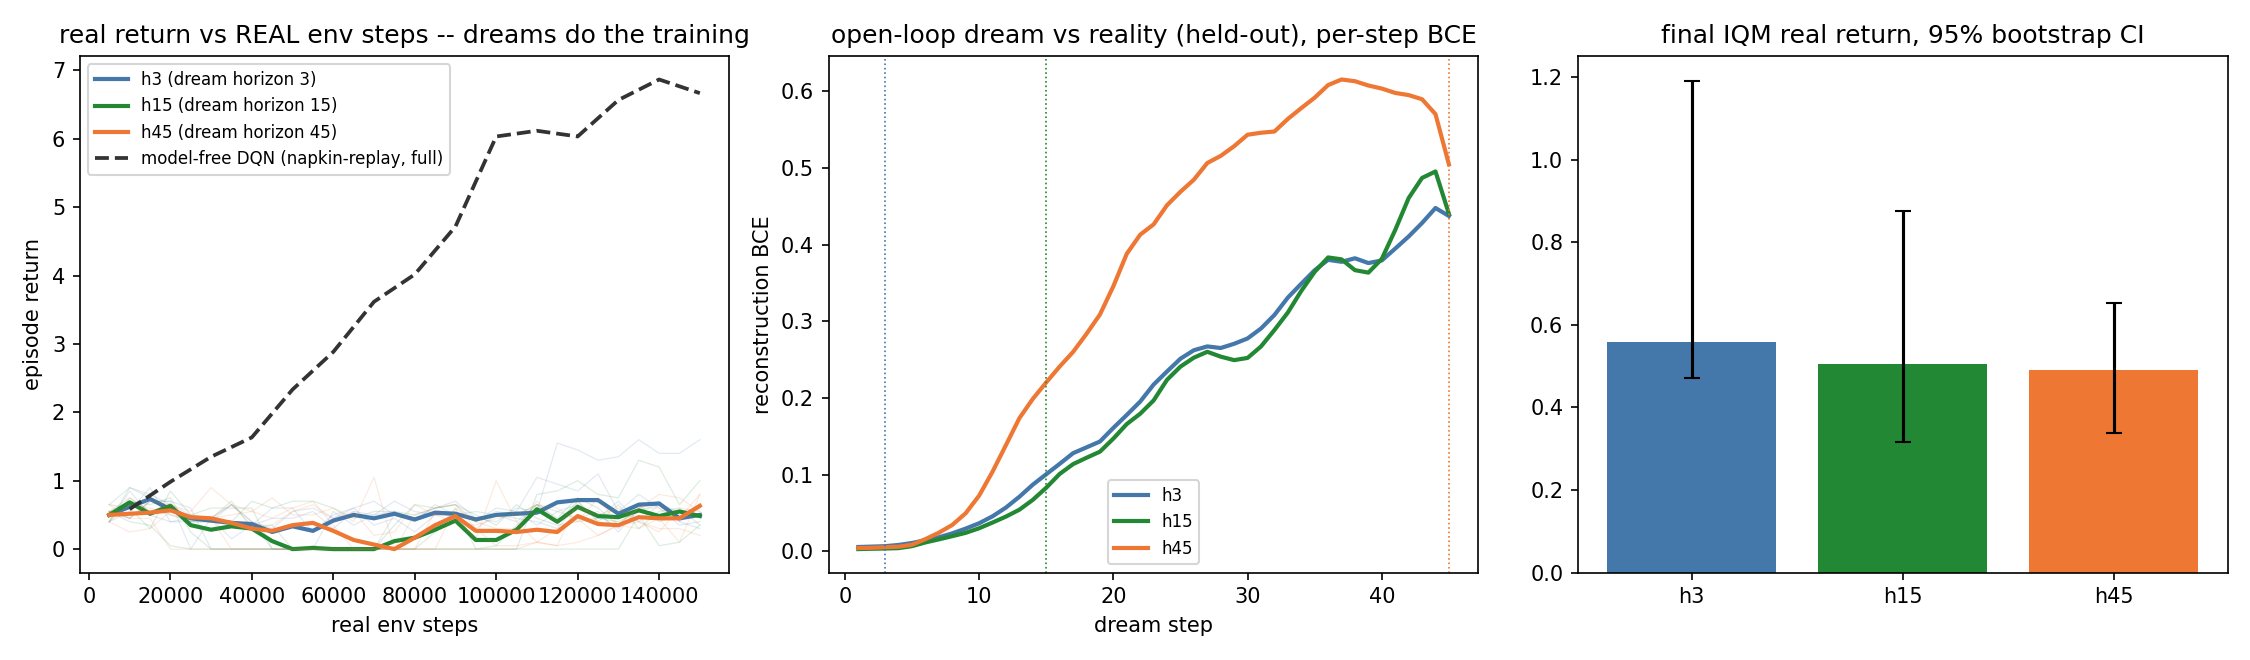
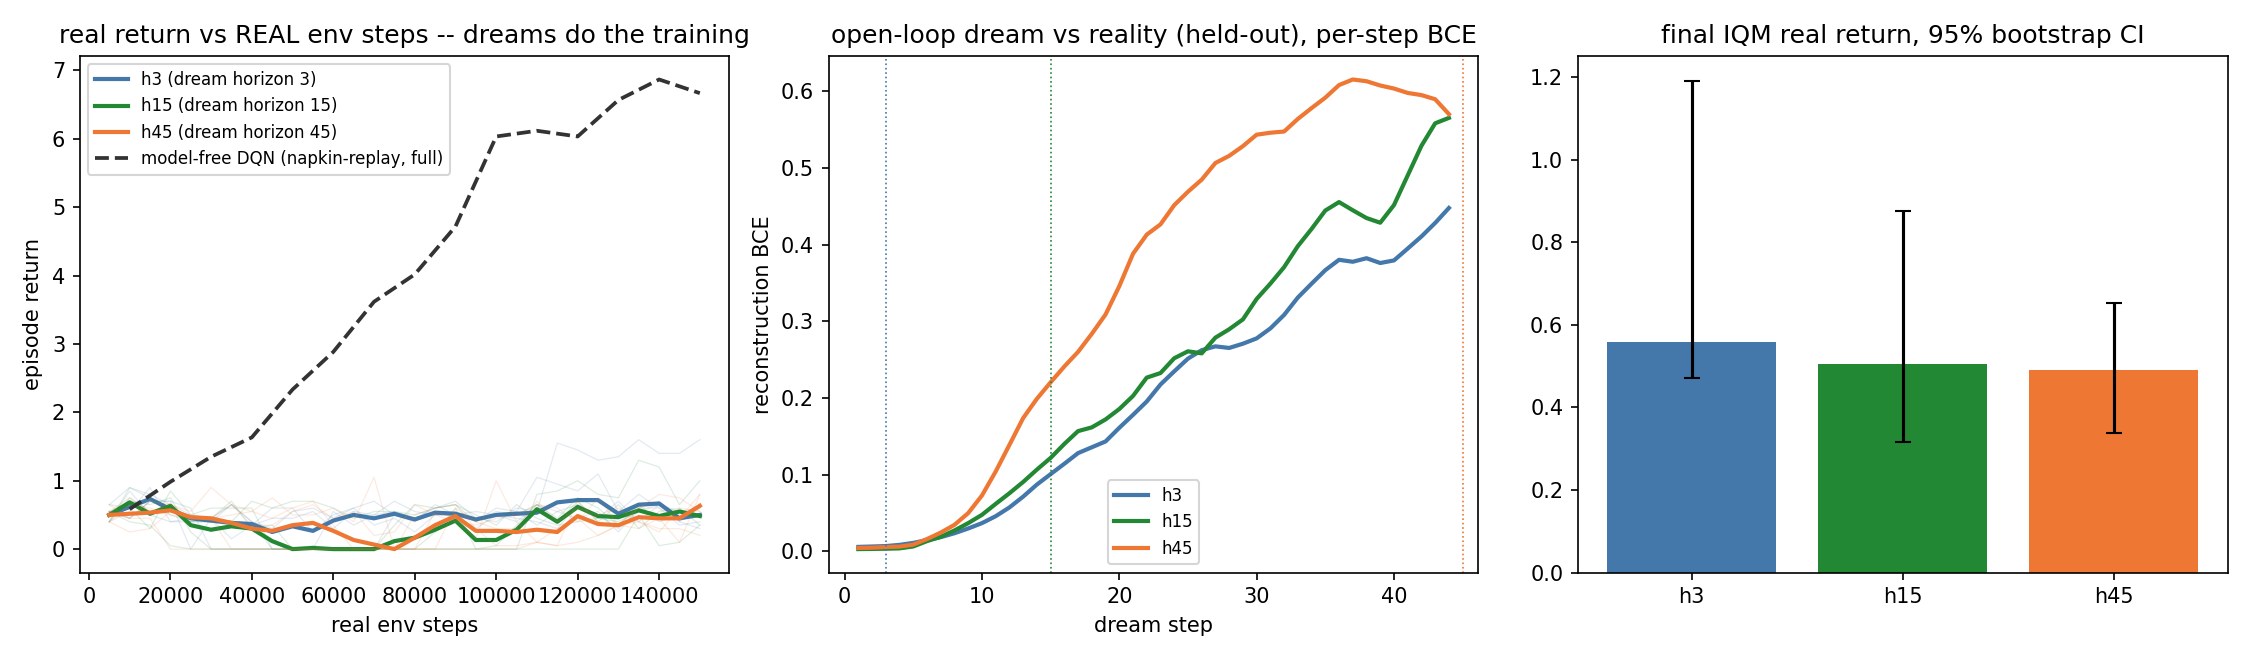
Recover the null divergence seed; correct the done-head claim's direction
The h15 seed-4 divergence null was a false negative of bounded rejection
sampling: rerunning with the exact-enumeration fallback reproduced the training
curve bit for bit and did find usable windows -- rare enough for ~51k random
draws to miss, not absent. Every divergence curve now averages 5 of 5 seeds,
and the recovered seed is h15's worst (0.339 at dream step 20 vs the arm's
0.186 mean), so excluding it had flattered h15.

The trust probe's done-head finding also needed its direction fixed. The
constant baseline's BCE is flat at 0.124 for 44 of 45 steps, i.e. the targets
are all zero: the model is not missing real episode ends, it is inventing ends
that never happen at ~99.9% confidence. Soft continues then delete the rest of
the dream's return, which is the sharper mechanism.

Also: divergence curves are plotted over their reset-free prefix (a window may
end on a done, deliberately -- otherwise the done head never sees a positive
example), and the divergence means now ship inside results.json so every number
quoted in the README has a committed source.

diff --git a/napkin_dreams.py b/napkin_dreams.py
@@ -311,7 +311,13 @@ def train(arm, seed, total_real=TOTAL_REAL, quiet=False):
 
 def divergence(wm, buf, horizon=45, k=256):
     """Open-loop dream vs recorded truth: per-step reconstruction BCE of the
-    dream against the actual frames, from held-out windows."""
+    dream against the actual frames, from held-out windows.
+
+    Boundary worth knowing when reading the curve: `sample_windows` rejects a
+    reset anywhere except the window's last transition (deliberately -- a
+    window that can never end is a window in which the done head has no
+    positive example to learn from), so index -1 here may be scored against a
+    post-reset frame. `plot` shows the reset-free prefix."""
     o, a, _, _ = buf.sample_windows(k, horizon)
     o = torch.as_tensor(o, device=DEV)
     a = torch.as_tensor(a, device=DEV)
@@ -447,12 +453,22 @@ def make_plots():
         divs = np.array([seeds[s]["divergence"] for s in sorted(seeds)
                          if seeds[s]["divergence"] is not None])
         if divs.size:
-            axes[1].plot(range(1, divs.shape[1] + 1), divs.mean(0),
+            # Windows are allowed to END on a done -- that is the only way the
+            # model's done head ever sees a positive example -- so the LAST
+            # step of a divergence curve can be scored against a post-reset
+            # frame. Plot the reset-free part; the raw 45 stay in the JSON.
+            axes[1].plot(range(1, divs.shape[1]), divs.mean(0)[:-1],
                          color=colors[arm], lw=2.0, label=arm)
         tail = curves[:, x >= 0.9 * x[-1], 1].mean(1)
         results[arm] = dict(iqm=float(iqm(tail)),
                             ci=[float(v) for v in bootstrap_ci(tail)],
-                            seeds=[float(v) for v in tail])
+                            seeds=[float(v) for v in tail],
+                            # the divergence curve is quoted in the README too,
+                            # so it ships in the same committed file as the
+                            # returns rather than only in the plot's pixels
+                            divergence_mean=[float(v) for v in divs.mean(0)]
+                            if divs.size else None,
+                            divergence_seeds=int(len(divs)))
 
     base = Path(__file__).parent / "assets" / "baseline_dqn.json"
     if base.exists():

diff --git a/README.md b/README.md
@@ -53,19 +53,22 @@ That detachment buys the repo's signature `selfcheck`: the imagination loop is a
    failure to detect an ordering, not proof of equivalence — either way, no winner is claimed
    and the registered U did not show up.
 3. **Divergence grows in dream depth as predicted** — but with a twist we didn't register:
-   `h45`'s world model diverges *fastest* (BCE knee near step 10, ~2× the other arms by step 20),
+   `h45`'s world model diverges *fastest* (BCE knee near step 10; 0.346 at step 20 against
+   `h3`'s 0.161 and `h15`'s 0.186, all 5 seeds),
    not just its policy. The model recipe (architecture, schedule, hyperparameters) is identical
    across arms; what differs is the data each arm's own policy collects. So "dream longer"
    degraded the dream itself through the data it gathered, not through the training recipe.
 4. One `h15` seed collapsed (seed 4: tail-mean return 0.25, the statistic the table uses; its
-   last curve point is 0.35) — **included** in the return IQM above. Its divergence probe found
-   **no usable 45-step window**: bounded rejection sampling drew ~51k candidate starts and
-   accepted 0 of the 256 needed, so the probe is reported as **null** rather than fabricated
-   (see INSIGHTS #3). Caveat stated because it matters: that null was produced *before* the
-   exact-enumeration fallback landed, and rejection can miss windows that are merely rare, so
-   "none exist" is not established — only "none found". The h15 divergence curve averages
-   4 of 5 seeds — and may flatter h15 there, since the excluded seed is its worst. Two `h45`
-   seeds had only 8–16 valid windows; their probes use exact enumeration of those windows.
+   last curve point is 0.35) — **included** in the return IQM above. Its divergence probe first
+   came back **null**: bounded rejection sampling drew ~51k candidate starts and accepted 0 of
+   the 256 windows needed. That null was a **false negative**, and this repo says so because it
+   went back and checked. Rerunning the seed with the exact-enumeration fallback reproduced the
+   training curve bit for bit (same 0.35 final) and *did* find usable windows — they were rare
+   enough for 51k random draws to miss, not absent (see INSIGHTS #3). Every divergence curve
+   below therefore averages **5 of 5 seeds**. The recovered seed is indeed h15's worst
+   (BCE 0.339 at dream step 20 against the arm's 0.186 mean), which is exactly why leaving it
+   out would have flattered h15. Two `h45` seeds had only 8–16 valid windows; their probes use
+   exact enumeration of those.
 
 ### Where the failure actually lives: the trust probe
 
@@ -80,10 +83,22 @@ do-nothing baselines on the same held-out windows** (`assets/trust_probe.json`):
 | reward (vs constant base rate) | 19 (first transient loss at 10) |
 | episode end (vs constant base rate) | **5** — then confidently wrong (BCE ~7 vs 0.12 by step 20) |
 
-The actor never sees pixels; it trains on latents through the reward and done heads. Done
-predictions worse than a constant **by dream step 5** poison the λ-returns (soft continues) of
-even the shortest useful dreams. That is the bottleneck, measured at the exact interface the
-dream gradient consumes.
+The done row needs its direction stated, because the obvious reading is the wrong one. These
+windows contain **no reset** except possibly at their final step, so the truth is "the episode
+does not end here" at every step scored — the constant base rate gets BCE 0.124 by simply saying
+so. A BCE near 7 means the model asserted the opposite with ~99.9% confidence: **it invents
+episode ends that never happen**, rather than missing real ones.
+
+The actor never sees pixels; it trains on latents through the reward and done heads. Hallucinated
+episode ends **by dream step 5** poison the λ-returns of even the shortest useful dreams, and they
+poison them in a specific way: soft continues multiply future credit by (1 − d̂), so a phantom
+done at step 5 silently deletes the rest of the dream's return. That is the bottleneck, measured
+at the exact interface the dream gradient consumes.
+
+One boundary in the divergence plot, for the same reason: a window is allowed to end on a reset —
+otherwise the done head would never see a positive example at all — so only a curve's final point
+can be scored against a post-reset frame. `plot` draws the reset-free prefix; `assets/results.json`
+keeps all 45 steps.
 
 **The verdict, scoped to what was measured:** at napkin scale, *this* model class — deterministic
 128-d latent, GRU dynamics, trained on 5-step windows — cannot dream well enough to train on, so

diff --git a/INSIGHTS.md b/INSIGHTS.md
@@ -41,11 +41,21 @@ naming found/needed counts turns an invisible hang into a one-line diagnosis. Se
 after the loud version revealed the true shape of the problem: two other seeds had *rare but
 real* clean windows (8 and 16 of the needed 256) that bounded rejection would wrongly abandon,
 so exhaustion now falls back to exact enumeration of valid starts — terminating, and null only
-when null is true (that collapsed seed's divergence is reported as null, not fabricated).
+when null is true.
+
+**The bound then produced a false negative of its own, and it took a rerun to catch.** The
+collapsed seed was published with a null divergence and an explicit caveat that "none found" is
+not "none exist". Rerunning it with the fallback in place settled which one it was: the training
+reproduced bit for bit (identical curve), and the probe returned a full 45-step divergence curve.
+The windows had been there all along, rare enough that ~51k random draws missed all of them. So
+the honest ledger is that a *loud* failure is still a failure mode: it converted a hang into a
+wrong-but-legible answer, and only re-running the measurement with the better estimator turned it
+into a right one.
 
 **Takeaway:** any `while` loop whose exit depends on properties of the data, not of the code,
-needs a bound and a loud exit. And the first loud failure is diagnostic gold: it told us the
-difference between "no valid windows" and "rare valid windows", which the hang never could.
+needs a bound and a loud exit — and a bound is an estimator, so its null results need the same
+suspicion as any other measurement. When you publish a null that a caveat has to defend, that
+caveat is a to-do item, not an absolution: go back and measure it properly.
 
 ## 4. The long-horizon arm didn't just trust its model further — it had a worse model
 
@@ -75,3 +85,16 @@ outputs disambiguate causal stories in seconds. And when a conclusion is negativ
 failing component against a no-skill baseline at the interface downstream code actually consumes,
 then scope the claim to that component. "X fails" and "my 5MB instance of X's key module fails"
 are different findings; only the second was earned here.
+
+**Refinement found on re-reading the probe's own output: name the failure's direction, not just
+its size.** The published line was "the done head is worse than a constant base rate from step 5".
+True — but the constant's BCE is flat at 0.124 for 44 of 45 steps, which is the signature of
+targets that are *all zero*: the probe's windows contain no reset except possibly at the last
+step. So the model is not failing to notice episode ends; it is asserting ends that do not exist,
+at ~99.9% confidence (BCE ≈ 7). That distinction changes the mechanism from "the dream misses
+terminations" to "soft continues multiply the rest of the dream's return by ~zero", which is a
+sharper and more damning story — and it was sitting in the committed JSON the whole time.
+
+**Takeaway:** before publishing "the model is worse than a trivial baseline", look at what the
+baseline is being right about. A flat baseline curve usually means the labels are constant, and a
+constant-label regime tells you which of two opposite failures you are looking at.
